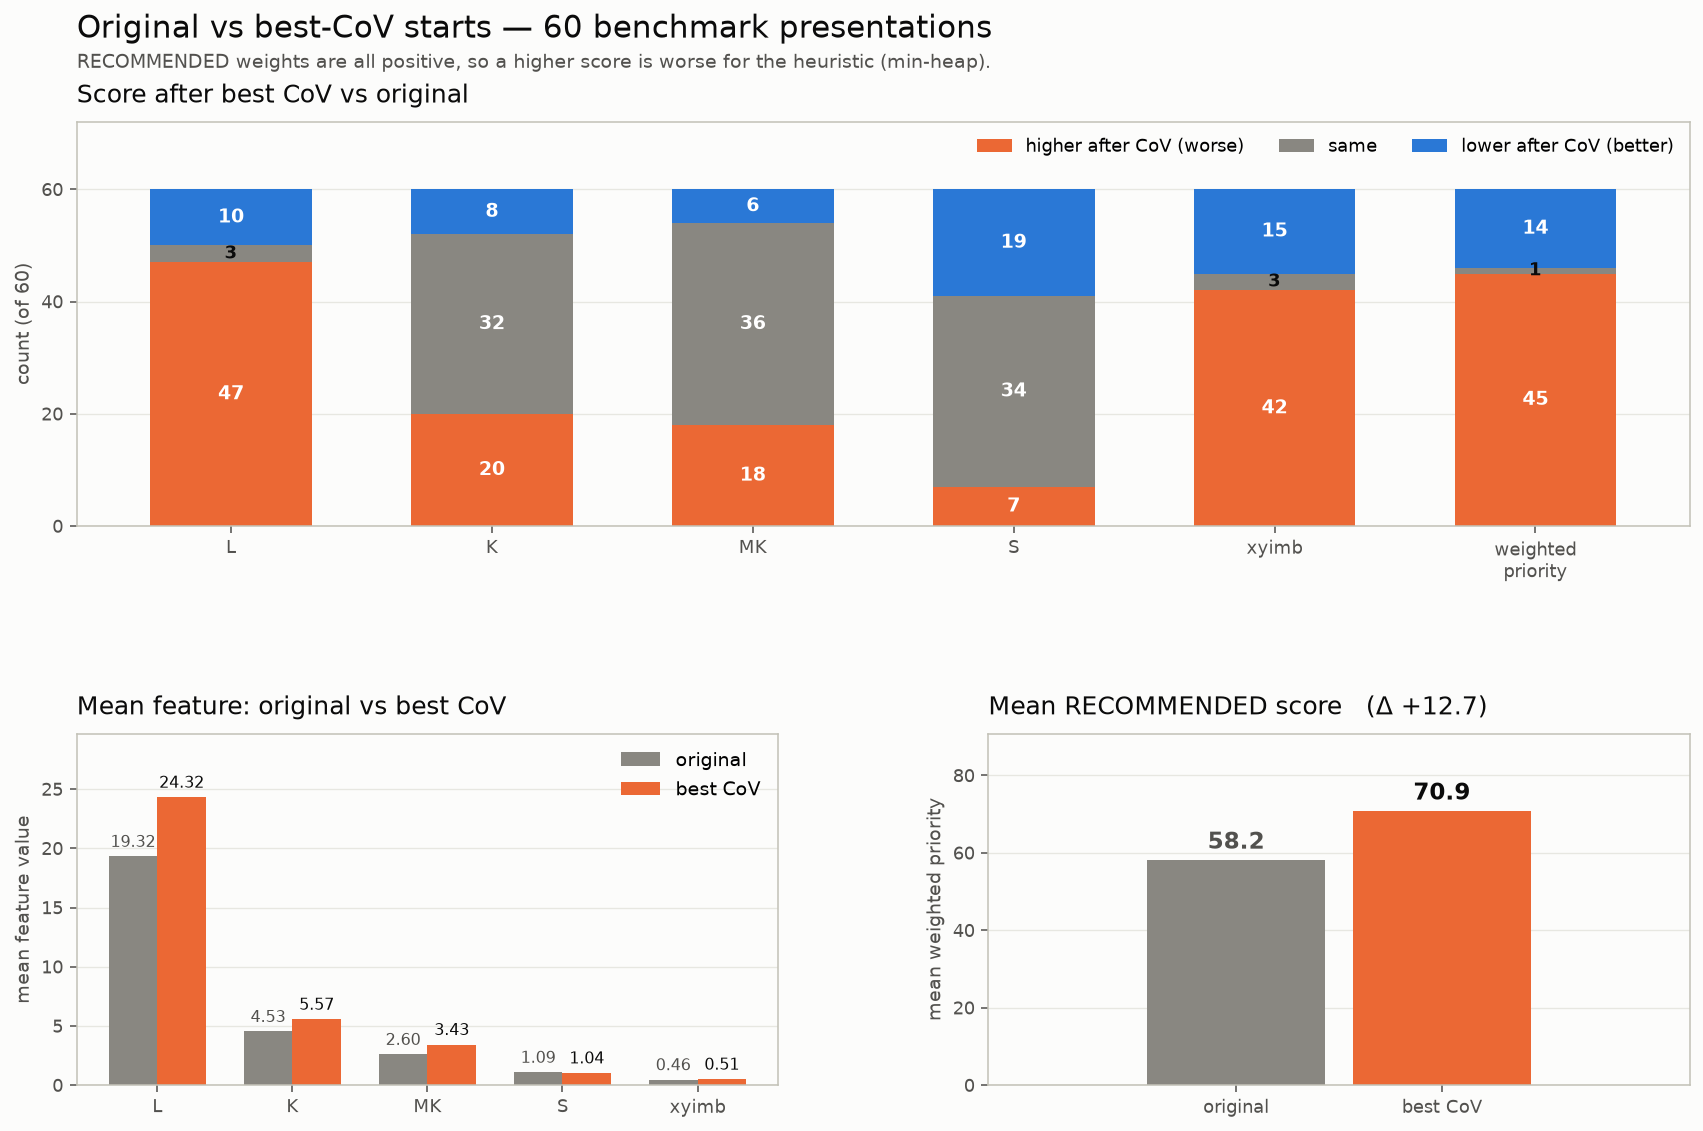
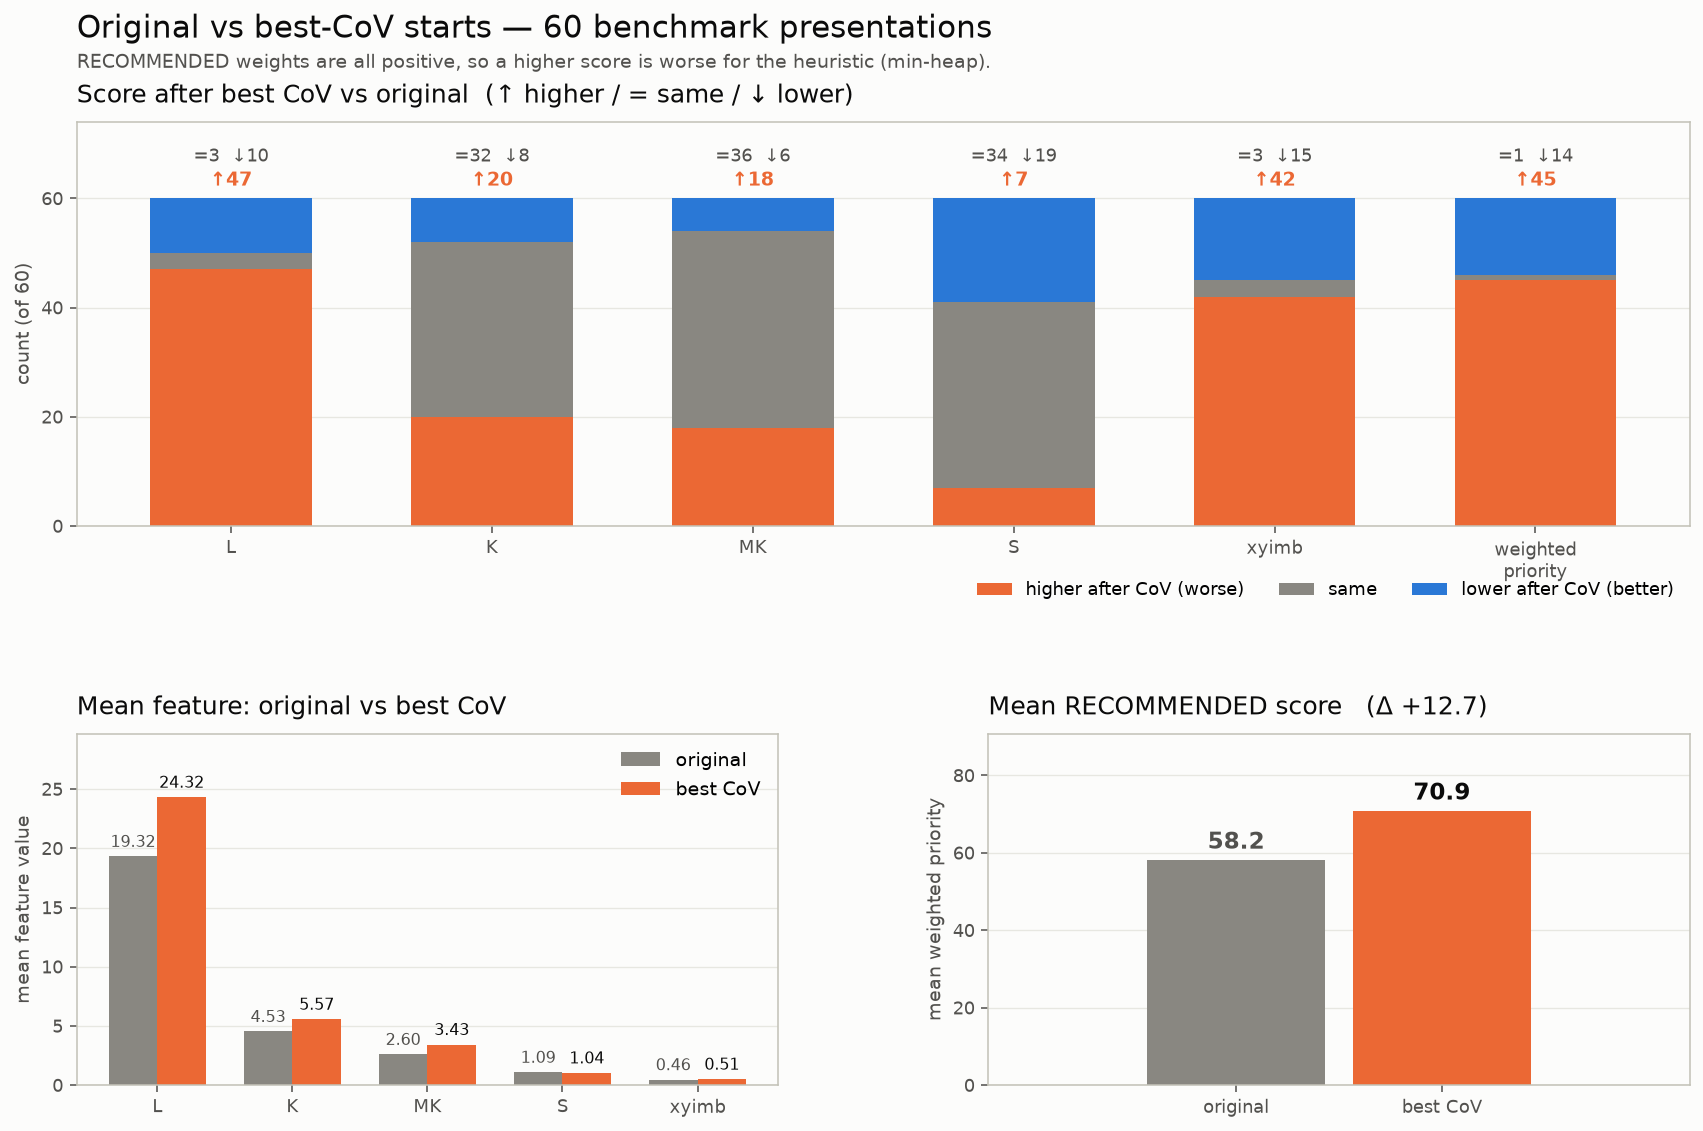
heur: show higher/same/lower counts above each CoV feature bar

diff --git a/experiments/heuristic_search/runners/cov_feature_delta.py b/experiments/heuristic_search/runners/cov_feature_delta.py
@@ -372,27 +372,19 @@ def fig_simple_higher_and_means(rows):
     ax0.bar(x_all, lo, bottom=hi + sm, color=IMPROVED, width=0.62,
             label="lower after CoV (better)")
     for i, (h, s, l) in enumerate(zip(hi, sm, lo)):
-        # label each stack segment when large enough; otherwise put the count just above it
-        for val, y0, color_in, color_out in (
-            (h, 0.0, "white", INK),
-            (s, float(h), "white", INK),
-            (l, float(h + s), "white", INK),
-        ):
-            if val <= 0:
-                continue
-            if val >= 6:
-                ax0.text(i, y0 + val / 2, str(int(val)), ha="center", va="center",
-                         color=color_in, fontsize=10, fontweight="bold")
-            else:
-                ax0.text(i, y0 + val / 2, str(int(val)), ha="center", va="center",
-                         color=color_out, fontsize=9, fontweight="bold")
-    ax0.set_ylim(0, 72)
+        # Always put all three counts above the stack so nothing is lost on grey/blue.
+        ax0.text(i, 61.5, f"↑{int(h)}", ha="center", va="bottom",
+                 color=WORSENED, fontsize=10, fontweight="bold")
+        ax0.text(i, 66.0, f"={int(s)}  ↓{int(l)}", ha="center", va="bottom",
+                 color=SECONDARY, fontsize=9)
+    ax0.set_ylim(0, 74)
     ax0.set_yticks([0, 20, 40, 60])
     ax0.set_xticks(x_all, disp_all)
     ax0.set_ylabel("count (of 60)", color=SECONDARY)
-    ax0.set_title("Score after best CoV vs original",
+    ax0.set_title("Score after best CoV vs original  (↑ higher / = same / ↓ lower)",
                   loc="left", fontsize=13, color=INK, pad=10)
-    ax0.legend(frameon=False, loc="upper right", ncol=3, fontsize=9)
+    ax0.legend(frameon=False, loc="lower right", ncol=3, fontsize=9,
+               bbox_to_anchor=(1.0, -0.22))
     _style_axis(ax0)
     ax0.grid(False, axis="x")
 
